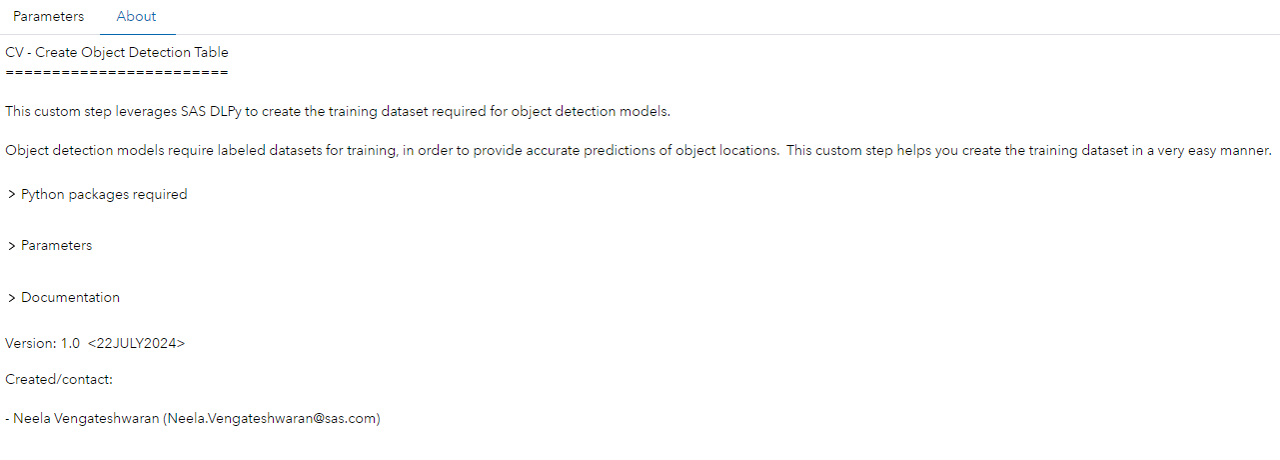
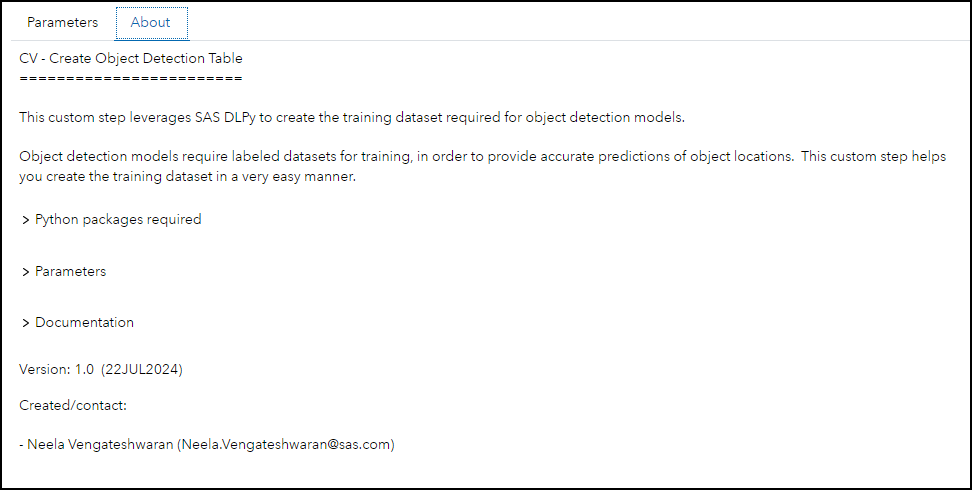
Small cosmetic updates
- Used DDMMMYYY notation for version date (instead of writing out the month fully) for both About tab and README.md
- Used round brackets around version date instead of LT and GT signs in About tab of step.
- Added border around screen capture of About tab

diff --git a/CV - Create Object Detection Table/README.md b/CV - Create Object Detection Table/README.md
@@ -76,5 +76,5 @@ https://github.com/sassoftware/python-dlpy
 - Neela Vengateshwaran (Neela.Vengateshwaran@sas.com)
 
 ## Change Log
-- Version 1.0 (22JULY2024)
+- Version 1.0 (22JUL2024)
     - Initial version
